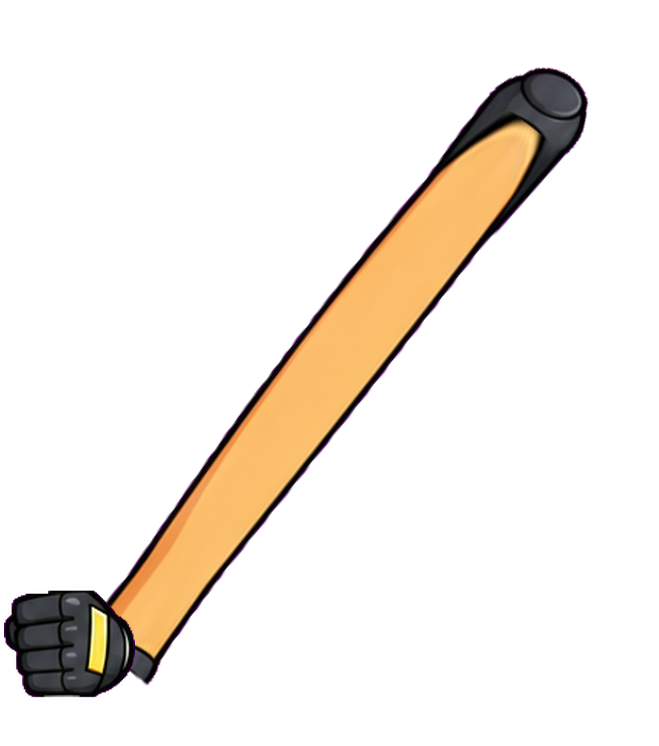
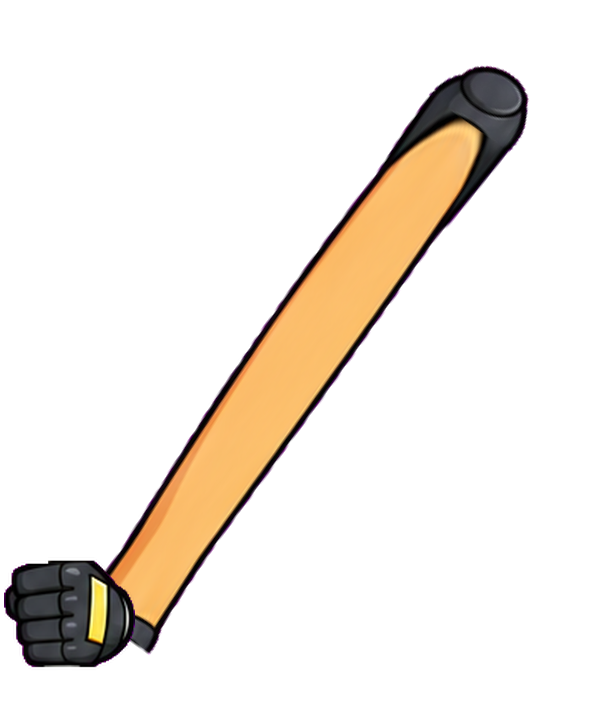
11 네온 알론소 내려찍기 v3 (DHL 17:37): 머리 위 팔뚝이 얼굴을 가로지르지 않게 — 팔꿈치 눈 높이 위, 두 윗팔이 얼굴 양옆(시트 m10)
- 손잡이 60 위, 쥔 팔 조각 각도·길이 다시 풀기(fOH·nOH)
- 머리 위 전용 긴 윗팔 armNupL·armFupL: 어깨 덮개 그대로 살 부분만 미리 늘임(덮개 긴 타원 없음), 굵기 1.2배
- 휘두름·런지는 v2 짧은 윗팔 그대로, 엔진 안 바꿈

Claude-Session: https://claude.ai/code/session_011WxNHak8EsK79yqEoeePC7

diff --git a/assets/rig/alonso-neon/rig.def.js b/assets/rig/alonso-neon/rig.def.js
@@ -1,3 +1,3 @@
 // 자동 생성: rig.json을 JS로 감싼 것. 원본은 같은 폴더의 rig.json (source/build_neon.py)
 window.MR_RIG_DEFS=window.MR_RIG_DEFS||{};
-window.MR_RIG_DEFS['alonso-neon']={"name": "alonso-neon", "version": "5b5ce94a", "units": "rig px (원화 512 ×2)", "refOrigin": [416.0, 972.0], "refScale": 1.0, "refLift": 0, "parts": {"head": {"src": "parts/head.png", "pivot": [146.0, 249.0], "scale": 2.0}, "torso": {"src": "parts/torso.png", "pivot": [66.0, 102.0], "scale": 2.0}, "torsoS": {"src": "parts/torsoS.png", "pivot": [66.0, 107.0], "scale": 2.0}, "hips": {"src": "parts/hips.png", "pivot": [34.0, 1.0], "scale": 2.0}, "pauldron": {"src": "parts/pauldron.png", "pivot": [45.0, 44.0], "scale": 2.0}, "pauldronF": {"src": "parts/pauldronF.png", "pivot": [26.0, 33.0], "scale": 2.0}, "armU": {"src": "parts/armU.png", "pivot": [7.0, 4.0], "scale": 2.0, "elbow": [23.0, 30.0]}, "armL": {"src": "parts/armL.png", "pivot": [13.0, 17.0], "scale": 2.0, "elbow": [13.0, 17.0], "grip": [99.7, 47.5], "wrist": [99.7, 47.5], "shaftDir": [0.6051086267486272, -0.7961429204824914]}, "foreF": {"src": "parts/foreF.png", "pivot": [3.0, 28.0], "scale": 2.0, "elbow": [3.0, 28.0], "grip": [39.8, 28.0], "wrist": [39.8, 28.0], "shaftDir": [0.6051086267486272, -0.7961429204824914]}, "armF": {"src": "parts/armF.png", "pivot": [36, 25], "scale": 0.7063, "elbow": [38, 145]}, "weapon": {"src": "parts/weapon.png", "pivot": [100, 396.4641362222595], "scale": 2.0, "tip": [100, 16], "tips": [[92, 10], [108, 10]], "guard": [100, 370], "pommel": [100, 463]}, "face_effort": {"src": "parts/face_effort.png", "pivot": [146.0, 249.0], "scale": 2.0}, "face_shout": {"src": "parts/face_shout.png", "pivot": [146.0, 249.0], "scale": 2.0}, "face_focus": {"src": "parts/face_focus.png", "pivot": [146.0, 249.0], "scale": 2.0}, "face_happy": {"src": "parts/face_happy.png", "pivot": [146.0, 249.0], "scale": 2.0}, "face_surprised": {"src": "parts/face_surprised.png", "pivot": [146.0, 249.0], "scale": 2.0}, "face_grimace": {"src": "parts/face_grimace.png", "pivot": [146.0, 249.0], "scale": 2.0}, "face_closed": {"src": "parts/face_closed.png", "pivot": [146.0, 249.0], "scale": 2.0}, "face_half": {"src": "parts/face_half.png", "pivot": [146.0, 249.0], "scale": 2.0}, "thighN": {"src": "parts/thighN.png", "pivot": [0, 0], "scale": 1.0}, "thighF": {"src": "parts/thighF.png", "pivot": [0, 0], "scale": 1.0}, "shinN": {"src": "parts/shinN.png", "pivot": [0, 0], "scale": 1.0}, "shinF": {"src": "parts/shinF.png", "pivot": [0, 0], "scale": 1.0}, "bootN": {"src": "parts/bootN.png", "pivot": [52.0, 2.0], "scale": 2.0}, "bootF": {"src": "parts/bootF.png", "pivot": [20.0, 9.0], "scale": 2.0}, "rthighN": {"src": "parts/rthighN.png", "pivot": [0, 0], "scale": 1.0}, "rthighF": {"src": "parts/rthighF.png", "pivot": [0, 0], "scale": 1.0}, "rshinN": {"src": "parts/rshinN.png", "pivot": [0, 0], "scale": 1.0}, "rshinF": {"src": "parts/rshinF.png", "pivot": [0, 0], "scale": 1.0}, "rkneeN": {"src": "parts/rkneeN.png", "pivot": [49.5, 50.5], "scale": 0.8}, "rkneeF": {"src": "parts/rkneeF.png", "pivot": [49.5, 50.5], "scale": 0.8}, "rboot": {"src": "parts/rboot.png", "pivot": [46.0, 30.0], "scale": 1.12}, "fOH": {"src": "parts/fOH.png", "pivot": [545.5, 108.1], "elbow": [545.5, 108.1], "grip": [59.5, 645.5], "wrist": [59.5, 645.5], "shaftDir": [0.0, 1.0], "scale": 0.5}, "nOH": {"src": "parts/nOH.png", "pivot": [96.3, 111.9], "elbow": [96.3, 111.9], "grip": [754.5, 360.5], "wrist": [754.5, 360.5], "shaftDir": [0.0, -1.0], "scale": 0.5}, "fST": {"src": "parts/fST.png", "pivot": [73.5, 100.7], "elbow": [73.5, 100.7], "grip": [262.2, 106.7], "wrist": [262.2, 106.7], "shaftDir": [1.0, 0.0], "scale": 0.5}, "nST": {"src": "parts/nST.png", "pivot": [92.6, 191.0], "elbow": [92.6, 191.0], "grip": [435.2, 94.2], "wrist": [435.2, 94.2], "shaftDir": [1.0, 0.0], "scale": 0.5}, "armNup": {"src": "parts/armNup.png", "pivot": [31.0, 119.5], "elbow": [70.6, 29.2], "scale": 1.0}, "armFup": {"src": "parts/armFup.png", "pivot": [59.3, 99.7], "elbow": [29.1, 29.2], "scale": 1.0}, "weaponA": {"src": "parts/weaponA.png", "pivot": [100, 396.4641362222595], "scale": 2.0, "tip": [100, 16], "tips": [[92, 10], [108, 10]], "guard": [100, 370], "pommel": [100, 463]}}, "bones": [{"name": "root", "parent": null, "pos": [0, 0]}, {"name": "hip", "parent": "root", "pos": [-32.0, -176.0]}, {"name": "hips", "parent": "hip", "pos": [0.0, 0.0], "part": "hips"}, {"name": "torso", "parent": "hip", "pos": [0.0, 0.0], "part": "torso"}, {"name": "torsoS", "parent": "torso", "pos": [0, 0], "part": "torsoS"}, {"name": "head", "parent": "torso", "pos": [26.0, -172.0], "part": "head"}, {"name": "armF", "parent": "torso", "pos": [110.0, -124.0], "rot": 0.3533, "part": "armF"}, {"name": "foreF", "parent": "armF", "pos": [1.4, 84.7], "rot": -0.3533, "part": "foreF"}, {"name": "fistF", "parent": "foreF", "pos": [73.7, -0.1]}, {"name": "weapon", "parent": "fistF", "pos": [0, 0], "rot": 0.6499, "part": "weapon"}, {"name": "armU", "parent": "torso", "pos": [-84.0, -112.0], "part": "armU"}, {"name": "armL", "parent": "armU", "pos": [32.0, 52.0], "part": "armL"}, {"name": "fistN", "parent": "armL", "pos": [173.3, 61.1]}, {"name": "pauldron", "parent": "torso", "pos": [-84.0, -112.0], "part": "pauldron"}, {"name": "pauldronF", "parent": "torso", "pos": [110.0, -124.0], "part": "pauldronF"}, {"name": "cape", "parent": "torso", "pos": [0, -200]}, {"name": "scarf", "parent": "torso", "pos": [0, -200]}, {"name": "pouch", "parent": "torso", "pos": [0, -200]}, {"name": "skirt", "parent": "torso", "pos": [0, -200]}, {"name": "skirtB", "parent": "torso", "pos": [0, -200]}, {"name": "weaponA", "parent": "weapon", "pos": [0, 0], "part": "weaponA"}], "legs": {"hip": [0, 10], "thigh": 108.0, "shin": 78.0, "thighImg": {"part": "rthighF", "a": [34.2, 21.6], "b": [39.7, 133.9], "w": 1.197}, "shinImg": {"part": "rshinF", "a": [28.5, 22.3], "b": [46.0, 131.1], "w": 1.625}, "thighFirst": false, "boot": {"part": "rboot", "sole": [[-46.0, 49.0], [84.0, 49.0], [-34.0, 56.0], [84.0, 56.0], [26.0, 63.0], [52.0, 63.0]], "ankleRange": [-0.45, 0.75]}, "near": {"x": -96.0, "hipX": -40.0, "runX": -10, "shade": 0, "kneeOut": 1, "thigh": 65.1, "shin": 57.3, "thighImg": {"part": "rthighN", "a": [47.1, 21.8], "b": [48.1, 129.7], "w": 1.149}, "shinImg": {"part": "rshinN", "a": [34.2, 21.6], "b": [24.7, 127.2], "w": 1.563}, "kneeImg": {"part": "rkneeN", "mix": 0.5}, "stand": {"fade": [0.05, 0.1], "boot": {"part": "bootN", "sole": [[-46.0, 28.0], [3.0, 28.0], [-35.0, 32.0], [-16.0, 32.0]]}, "thighImg": {"part": "thighN", "a": [63.0, 8.0], "b": [41.0, 32.0], "w": 1.0}, "shinImg": {"part": "shinN", "a": [35.0, -12.0], "b": [29.0, 16.0], "w": 1.0}, "kneeImg": null}}, "far": {"x": 158.0, "hipX": 44.0, "runX": 10, "shade": 0, "thigh": 118.2, "shin": 72.2, "thighImg": {"part": "rthighF", "a": [34.2, 21.6], "b": [39.7, 133.9], "w": 1.197}, "shinImg": {"part": "rshinF", "a": [28.5, 22.3], "b": [46.0, 131.1], "w": 1.625}, "kneeImg": {"part": "rkneeF", "mix": 0.5}, "stand": {"fade": [0.05, 0.1], "boot": {"part": "bootF", "sole": [[-1.0, 18.0], [55.0, 18.0], [26.0, 22.0], [41.0, 22.0]]}, "thighImg": {"part": "thighF", "a": [27.0, 7.0], "b": [81.0, 31.0], "w": 1.0}, "shinImg": {"part": "shinF", "a": [11.0, -11.0], "b": [14.0, 25.0], "w": 1.0}, "kneeImg": null}}}, "draw": ["legFar", "legNear", "hips", "armF", "torsoS", "torso", "pauldronF", "head", "weapon", "weaponA", "foreF", "armU", "pauldron", "armL"], "drawA": ["legFar", "legNear", "hips", "armF", "torsoS", "torso", "pauldronF", "head", "weapon", "weaponA", "foreF", "armU", "pauldron", "armL"], "hidden": ["torsoS", "weaponA"], "faces": {"effort": "face_effort", "shout": "face_shout", "focus": "face_focus", "happy": "face_happy", "surprised": "face_surprised", "grimace": "face_grimace"}, "blinkFaces": {"half": "face_half", "closed": "face_closed"}, "metrics": {"bodyHeight": 774, "note": "rig units; 머리카락 가운데(y95)~발바닥(482) ×2, 무기 제외"}, "armPhase": 0.5, "gait": {"heelKick": 0.5, "kneeLift": 0.35, "strideBase": 80, "strideK": 0.2, "swingReach": -0.05, "swingAng": 0.15, "landAng": 0, "hipBase": -44, "bob": 10, "lean": 0.1, "headRun": 0.04}, "carrySwing": 0.25, "wristRange": 0.2, "swordGrip": {"tipDepth": 6, "near": {"upper": "armF", "carry": "foreF"}, "far": {"upper": "armU", "pieces": ["armL"], "sPref": -56.8}, "guard": {"gx": 155.7, "gy": -44.1, "sa": -0.9209, "sN": 0, "sF": -56.8, "nPiece": "foreF", "fPiece": "armL", "nUpper": "armF", "fUpper": "armU", "order": "drawA", "frame": "torso"}, "shoulderN": [36, 6], "shoulderF": [-15, -5], "stretchMax": 2.4, "shoulderPush": 0, "pauldronFollow": 1}, "ui": {"attack": "smash", "touch": "hop"}, "gameRef": {"refOrigin": [208.0, 486.0], "refScale": 2.0, "refLift": 0, "note": "게임 그림 char_0011.png(512) = 원화"}, "note": "11 네온 알론소 (2026-10-18, v1 대기·달리기). 두 손으로 칼을 몸 앞에 쥠(swordGrip.guard), 손·팔뚝·머리·어깨갑은 원화를 그대로 오려 씀.", "drawOH": ["legFar", "legNear", "hips", "torsoS", "torso", "pauldronF", "head", "weapon", "weaponA", "armF", "armU", "foreF", "armL", "pauldron"], "drawSW": ["legFar", "legNear", "hips", "armF", "foreF", "armU", "armL", "torsoS", "torso", "pauldronF", "head", "weapon", "weaponA", "pauldron"], "actions": {"smash": {"dur": 0.9, "hitAt": 0.43, "hitStop": 0.07, "cancelAt": 0.64, "legRun": [[0, 0], [0.36, 0, "lin"], [0.3601, 0.12, "io"], [0.43, 1], [0.64, 1, "io"], [0.79, 0.12, "lin"], [0.7901, 0]], "w": [[0, 1]], "reach": [[0, 1]], "sN": [[0, 0]], "sF": [[0, -56.8]], "shN": [[0, 0], [0.36, 0, "io"], [0.43, 1], [0.64, 1, "io"], [0.8, 0]], "shF": [[0, 0], [0.08, 0, "io"], [0.15, 1], [0.66, 1, "io"], [0.76, 0]], "hipX": [[0, 0, "io"], [0.067, -4, "io"], [0.3, -6, "s"], [0.43, 60, "o"], [0.62, 60, "io"], [0.84, 0]], "hipY": [[0, 0, "io"], [0.067, 12, "io"], [0.2, -4, "s"], [0.33, -2, "s"], [0.43, 40, "o"], [0.62, 36, "io"], [0.84, 0]], "lean": [[0, 0, "io"], [0.067, 0.03, "io"], [0.2, -0.06, "s"], [0.33, -0.08, "s"], [0.43, 0.25, "o"], [0.62, 0.22, "io"], [0.84, 0]], "head": [[0, 0, "io"], [0.2, 0.05, "s"], [0.43, -0.12, "o"], [0.62, -0.1, "io"], [0.84, 0]], "farDx": [[0, 0, "io"], [0.3, 0, "s"], [0.43, 60], [0.64, 60, "io"], [0.84, 0]], "farLift": [[0, 0], [0.3, 0, "io"], [0.37, 24, "io"], [0.43, 0], [0.66, 0, "io"], [0.74, 14, "io"], [0.84, 0]], "nearDx": [[0, 0, "io"], [0.3, 0, "io"], [0.43, -55], [0.64, -55, "io"], [0.84, 0]], "shake": [[0, 0], [0.43, 0, "lin"], [0.44, 1], [0.53, 0]], "face": [[0, "effort"], [0.15, "shout"], [0.5, "focus"], [0.8, null]], "nPiece": [[0, "foreF"], [0.1001, "fOH"], [0.3601, "fST"], [0.72, "foreF"]], "fPiece": [[0, "armL"], [0.1001, "nOH"], [0.3601, "nST"], [0.72, "armL"]], "nUpper": [[0, "armF"], [0.1001, "armFup"], [0.72, "armF"]], "fUpper": [[0, "armU"], [0.1001, "armNup"], [0.72, "armU"]], "order": [[0, "drawA"], [0.1001, "drawOH"], [0.3601, "drawA"]], "fade": {"torso": [[0, 1], [0.1, 1, "lin"], [0.1001, 0], [0.72, 0, "lin"], [0.721, 1]], "torsoS": [[0, 1]], "pauldronF": [[0, 1], [0.1, 1, "lin"], [0.1001, 0], [0.72, 0, "lin"], [0.721, 1]], "pauldron": [[0, 1], [0.1, 1, "lin"], [0.1001, 0], [0.36, 0, "lin"], [0.3601, 1]], "armF": [[0, 1], [0.36, 1, "lin"], [0.3601, 0], [0.72, 0, "lin"], [0.721, 1]], "weapon": [[0, 1], [0.1, 1, "lin"], [0.1001, 0], [0.72, 0, "lin"], [0.721, 1]], "weaponA": [[0, 0], [0.1, 0, "lin"], [0.1001, 1], [0.72, 1, "lin"], [0.721, 0]]}, "kneeOut": 1, "ankleRange": [-0.45, 1.1], "fTw": [[0, 0], [0.1, 0, "lin"], [0.1001, -0.62, "lin"], [0.1002, -0.62, "o"], [0.15, -0.12, "io"], [0.22, 0, "lin"], [0.33, 0.08, "lin"], [0.36, 0.05, "lin"], [0.3601, 0.2, "o"], [0.41, 0, "io"], [0.62, 0, "io"], [0.72, 0.8, "lin"], [0.7201, -0.81, "io"], [0.8, 0]], "nTw": [[0, 0], [0.1, 0, "lin"], [0.1001, -0.62, "lin"], [0.1002, -0.62, "o"], [0.15, -0.12, "io"], [0.22, 0, "lin"], [0.33, 0.08, "lin"], [0.36, 0.05, "lin"], [0.3601, 0.2, "o"], [0.41, 0, "io"], [0.62, 0, "io"], [0.72, 0.42, "lin"], [0.7201, -0.42, "io"], [0.8, 0]], "kind": "sword", "rigid": true, "frame": "torso", "orderAlways": true, "gx": [[0, 155.7, "io"], [0.067, 150, "i"], [0.1, 235, "lin"], [0.1002, 150, "o"], [0.15, 20, "io"], [0.22, 5, "io"], [0.33, -5, "io"], [0.36, -5, "lin"], [0.3601, 225, "o"], [0.43, 213, "o"], [0.62, 213, "io"], [0.82, 155.7, "io"]], "gy": [[0, -44.1, "io"], [0.067, -24, "i"], [0.1, -170, "lin"], [0.1002, -500, "o"], [0.15, -590, "io"], [0.22, -605, "io"], [0.33, -610, "io"], [0.36, -600, "lin"], [0.3601, -180, "o"], [0.43, -96, "o"], [0.62, -96, "io"], [0.82, -44.1, "io"]], "sa": [[0, -0.9209, "io"], [0.067, -0.75, "i"], [0.1, -1.2, "lin"], [0.1002, -2.3, "o"], [0.15, -2.8, "io"], [0.22, -2.92, "io"], [0.33, -3.0, "io"], [0.36, -2.95, "lin"], [0.3601, -0.2, "o"], [0.43, 0.42, "o"], [0.62, 0.42, "io"], [0.82, -0.9209, "io"]]}}, "cutHold": 0.55};
+window.MR_RIG_DEFS['alonso-neon']={"name": "alonso-neon", "version": "fadee960", "units": "rig px (원화 512 ×2)", "refOrigin": [416.0, 972.0], "refScale": 1.0, "refLift": 0, "parts": {"head": {"src": "parts/head.png", "pivot": [146.0, 249.0], "scale": 2.0}, "torso": {"src": "parts/torso.png", "pivot": [66.0, 102.0], "scale": 2.0}, "torsoS": {"src": "parts/torsoS.png", "pivot": [66.0, 107.0], "scale": 2.0}, "hips": {"src": "parts/hips.png", "pivot": [34.0, 1.0], "scale": 2.0}, "pauldron": {"src": "parts/pauldron.png", "pivot": [45.0, 44.0], "scale": 2.0}, "pauldronF": {"src": "parts/pauldronF.png", "pivot": [26.0, 33.0], "scale": 2.0}, "armU": {"src": "parts/armU.png", "pivot": [7.0, 4.0], "scale": 2.0, "elbow": [23.0, 30.0]}, "armL": {"src": "parts/armL.png", "pivot": [13.0, 17.0], "scale": 2.0, "elbow": [13.0, 17.0], "grip": [99.7, 47.5], "wrist": [99.7, 47.5], "shaftDir": [0.6051086267486272, -0.7961429204824914]}, "foreF": {"src": "parts/foreF.png", "pivot": [3.0, 28.0], "scale": 2.0, "elbow": [3.0, 28.0], "grip": [39.8, 28.0], "wrist": [39.8, 28.0], "shaftDir": [0.6051086267486272, -0.7961429204824914]}, "armF": {"src": "parts/armF.png", "pivot": [36, 25], "scale": 0.7063, "elbow": [38, 145]}, "weapon": {"src": "parts/weapon.png", "pivot": [100, 396.4641362222595], "scale": 2.0, "tip": [100, 16], "tips": [[92, 10], [108, 10]], "guard": [100, 370], "pommel": [100, 463]}, "face_effort": {"src": "parts/face_effort.png", "pivot": [146.0, 249.0], "scale": 2.0}, "face_shout": {"src": "parts/face_shout.png", "pivot": [146.0, 249.0], "scale": 2.0}, "face_focus": {"src": "parts/face_focus.png", "pivot": [146.0, 249.0], "scale": 2.0}, "face_happy": {"src": "parts/face_happy.png", "pivot": [146.0, 249.0], "scale": 2.0}, "face_surprised": {"src": "parts/face_surprised.png", "pivot": [146.0, 249.0], "scale": 2.0}, "face_grimace": {"src": "parts/face_grimace.png", "pivot": [146.0, 249.0], "scale": 2.0}, "face_closed": {"src": "parts/face_closed.png", "pivot": [146.0, 249.0], "scale": 2.0}, "face_half": {"src": "parts/face_half.png", "pivot": [146.0, 249.0], "scale": 2.0}, "thighN": {"src": "parts/thighN.png", "pivot": [0, 0], "scale": 1.0}, "thighF": {"src": "parts/thighF.png", "pivot": [0, 0], "scale": 1.0}, "shinN": {"src": "parts/shinN.png", "pivot": [0, 0], "scale": 1.0}, "shinF": {"src": "parts/shinF.png", "pivot": [0, 0], "scale": 1.0}, "bootN": {"src": "parts/bootN.png", "pivot": [52.0, 2.0], "scale": 2.0}, "bootF": {"src": "parts/bootF.png", "pivot": [20.0, 9.0], "scale": 2.0}, "rthighN": {"src": "parts/rthighN.png", "pivot": [0, 0], "scale": 1.0}, "rthighF": {"src": "parts/rthighF.png", "pivot": [0, 0], "scale": 1.0}, "rshinN": {"src": "parts/rshinN.png", "pivot": [0, 0], "scale": 1.0}, "rshinF": {"src": "parts/rshinF.png", "pivot": [0, 0], "scale": 1.0}, "rkneeN": {"src": "parts/rkneeN.png", "pivot": [49.5, 50.5], "scale": 0.8}, "rkneeF": {"src": "parts/rkneeF.png", "pivot": [49.5, 50.5], "scale": 0.8}, "rboot": {"src": "parts/rboot.png", "pivot": [46.0, 30.0], "scale": 1.12}, "fOH": {"src": "parts/fOH.png", "pivot": [486.1, 106.4], "elbow": [486.1, 106.4], "grip": [59.5, 615.5], "wrist": [59.5, 615.5], "shaftDir": [0.0, 1.0], "scale": 0.5}, "nOH": {"src": "parts/nOH.png", "pivot": [101.7, 113.8], "elbow": [101.7, 113.8], "grip": [652.5, 376.5], "wrist": [652.5, 376.5], "shaftDir": [0.0, -1.0], "scale": 0.5}, "fST": {"src": "parts/fST.png", "pivot": [73.5, 100.7], "elbow": [73.5, 100.7], "grip": [262.2, 106.7], "wrist": [262.2, 106.7], "shaftDir": [1.0, 0.0], "scale": 0.5}, "nST": {"src": "parts/nST.png", "pivot": [92.6, 191.0], "elbow": [92.6, 191.0], "grip": [435.2, 94.2], "wrist": [435.2, 94.2], "shaftDir": [1.0, 0.0], "scale": 0.5}, "armNupL": {"src": "parts/armNupL.png", "pivot": [52, 32], "elbow": [52, 342], "scale": 1.0}, "armFupL": {"src": "parts/armFupL.png", "pivot": [52, 32], "elbow": [52, 330], "scale": 1.0}, "armNup": {"src": "parts/armNup.png", "pivot": [31.0, 119.5], "elbow": [70.6, 29.2], "scale": 1.0}, "armFup": {"src": "parts/armFup.png", "pivot": [59.3, 99.7], "elbow": [29.1, 29.2], "scale": 1.0}, "weaponA": {"src": "parts/weaponA.png", "pivot": [100, 396.4641362222595], "scale": 2.0, "tip": [100, 16], "tips": [[92, 10], [108, 10]], "guard": [100, 370], "pommel": [100, 463]}}, "bones": [{"name": "root", "parent": null, "pos": [0, 0]}, {"name": "hip", "parent": "root", "pos": [-32.0, -176.0]}, {"name": "hips", "parent": "hip", "pos": [0.0, 0.0], "part": "hips"}, {"name": "torso", "parent": "hip", "pos": [0.0, 0.0], "part": "torso"}, {"name": "torsoS", "parent": "torso", "pos": [0, 0], "part": "torsoS"}, {"name": "head", "parent": "torso", "pos": [26.0, -172.0], "part": "head"}, {"name": "armF", "parent": "torso", "pos": [110.0, -124.0], "rot": 0.3533, "part": "armF"}, {"name": "foreF", "parent": "armF", "pos": [1.4, 84.7], "rot": -0.3533, "part": "foreF"}, {"name": "fistF", "parent": "foreF", "pos": [73.7, -0.1]}, {"name": "weapon", "parent": "fistF", "pos": [0, 0], "rot": 0.6499, "part": "weapon"}, {"name": "armU", "parent": "torso", "pos": [-84.0, -112.0], "part": "armU"}, {"name": "armL", "parent": "armU", "pos": [32.0, 52.0], "part": "armL"}, {"name": "fistN", "parent": "armL", "pos": [173.3, 61.1]}, {"name": "pauldron", "parent": "torso", "pos": [-84.0, -112.0], "part": "pauldron"}, {"name": "pauldronF", "parent": "torso", "pos": [110.0, -124.0], "part": "pauldronF"}, {"name": "cape", "parent": "torso", "pos": [0, -200]}, {"name": "scarf", "parent": "torso", "pos": [0, -200]}, {"name": "pouch", "parent": "torso", "pos": [0, -200]}, {"name": "skirt", "parent": "torso", "pos": [0, -200]}, {"name": "skirtB", "parent": "torso", "pos": [0, -200]}, {"name": "weaponA", "parent": "weapon", "pos": [0, 0], "part": "weaponA"}], "legs": {"hip": [0, 10], "thigh": 108.0, "shin": 78.0, "thighImg": {"part": "rthighF", "a": [34.2, 21.6], "b": [39.7, 133.9], "w": 1.197}, "shinImg": {"part": "rshinF", "a": [28.5, 22.3], "b": [46.0, 131.1], "w": 1.625}, "thighFirst": false, "boot": {"part": "rboot", "sole": [[-46.0, 49.0], [84.0, 49.0], [-34.0, 56.0], [84.0, 56.0], [26.0, 63.0], [52.0, 63.0]], "ankleRange": [-0.45, 0.75]}, "near": {"x": -96.0, "hipX": -40.0, "runX": -10, "shade": 0, "kneeOut": 1, "thigh": 65.1, "shin": 57.3, "thighImg": {"part": "rthighN", "a": [47.1, 21.8], "b": [48.1, 129.7], "w": 1.149}, "shinImg": {"part": "rshinN", "a": [34.2, 21.6], "b": [24.7, 127.2], "w": 1.563}, "kneeImg": {"part": "rkneeN", "mix": 0.5}, "stand": {"fade": [0.05, 0.1], "boot": {"part": "bootN", "sole": [[-46.0, 28.0], [3.0, 28.0], [-35.0, 32.0], [-16.0, 32.0]]}, "thighImg": {"part": "thighN", "a": [63.0, 8.0], "b": [41.0, 32.0], "w": 1.0}, "shinImg": {"part": "shinN", "a": [35.0, -12.0], "b": [29.0, 16.0], "w": 1.0}, "kneeImg": null}}, "far": {"x": 158.0, "hipX": 44.0, "runX": 10, "shade": 0, "thigh": 118.2, "shin": 72.2, "thighImg": {"part": "rthighF", "a": [34.2, 21.6], "b": [39.7, 133.9], "w": 1.197}, "shinImg": {"part": "rshinF", "a": [28.5, 22.3], "b": [46.0, 131.1], "w": 1.625}, "kneeImg": {"part": "rkneeF", "mix": 0.5}, "stand": {"fade": [0.05, 0.1], "boot": {"part": "bootF", "sole": [[-1.0, 18.0], [55.0, 18.0], [26.0, 22.0], [41.0, 22.0]]}, "thighImg": {"part": "thighF", "a": [27.0, 7.0], "b": [81.0, 31.0], "w": 1.0}, "shinImg": {"part": "shinF", "a": [11.0, -11.0], "b": [14.0, 25.0], "w": 1.0}, "kneeImg": null}}}, "draw": ["legFar", "legNear", "hips", "armF", "torsoS", "torso", "pauldronF", "head", "weapon", "weaponA", "foreF", "armU", "pauldron", "armL"], "drawA": ["legFar", "legNear", "hips", "armF", "torsoS", "torso", "pauldronF", "head", "weapon", "weaponA", "foreF", "armU", "pauldron", "armL"], "hidden": ["torsoS", "weaponA"], "faces": {"effort": "face_effort", "shout": "face_shout", "focus": "face_focus", "happy": "face_happy", "surprised": "face_surprised", "grimace": "face_grimace"}, "blinkFaces": {"half": "face_half", "closed": "face_closed"}, "metrics": {"bodyHeight": 774, "note": "rig units; 머리카락 가운데(y95)~발바닥(482) ×2, 무기 제외"}, "armPhase": 0.5, "gait": {"heelKick": 0.5, "kneeLift": 0.35, "strideBase": 80, "strideK": 0.2, "swingReach": -0.05, "swingAng": 0.15, "landAng": 0, "hipBase": -44, "bob": 10, "lean": 0.1, "headRun": 0.04}, "carrySwing": 0.25, "wristRange": 0.2, "swordGrip": {"tipDepth": 6, "near": {"upper": "armF", "carry": "foreF"}, "far": {"upper": "armU", "pieces": ["armL"], "sPref": -56.8}, "guard": {"gx": 155.7, "gy": -44.1, "sa": -0.9209, "sN": 0, "sF": -56.8, "nPiece": "foreF", "fPiece": "armL", "nUpper": "armF", "fUpper": "armU", "order": "drawA", "frame": "torso"}, "shoulderN": [36, 6], "shoulderF": [-15, -5], "stretchMax": 1.6, "shoulderPush": 0, "pauldronFollow": 1}, "ui": {"attack": "smash", "touch": "hop"}, "gameRef": {"refOrigin": [208.0, 486.0], "refScale": 2.0, "refLift": 0, "note": "게임 그림 char_0011.png(512) = 원화"}, "note": "11 네온 알론소 (2026-10-18, v1 대기·달리기). 두 손으로 칼을 몸 앞에 쥠(swordGrip.guard), 손·팔뚝·머리·어깨갑은 원화를 그대로 오려 씀.", "drawOH": ["legFar", "legNear", "hips", "torsoS", "torso", "pauldronF", "head", "weapon", "weaponA", "armF", "armU", "foreF", "armL", "pauldron"], "drawSW": ["legFar", "legNear", "hips", "armF", "foreF", "armU", "armL", "torsoS", "torso", "pauldronF", "head", "weapon", "weaponA", "pauldron"], "actions": {"smash": {"dur": 0.9, "hitAt": 0.43, "hitStop": 0.07, "cancelAt": 0.64, "legRun": [[0, 0], [0.36, 0, "lin"], [0.3601, 0.12, "io"], [0.43, 1], [0.64, 1, "io"], [0.79, 0.12, "lin"], [0.7901, 0]], "w": [[0, 1]], "reach": [[0, 1]], "sN": [[0, 0]], "sF": [[0, -56.8]], "shN": [[0, 0], [0.36, 0, "io"], [0.43, 1], [0.64, 1, "io"], [0.8, 0]], "shF": [[0, 0], [0.08, 0, "io"], [0.15, 1], [0.66, 1, "io"], [0.76, 0]], "hipX": [[0, 0, "io"], [0.067, -4, "io"], [0.3, -6, "s"], [0.43, 60, "o"], [0.62, 60, "io"], [0.84, 0]], "hipY": [[0, 0, "io"], [0.067, 12, "io"], [0.2, -4, "s"], [0.33, -2, "s"], [0.43, 40, "o"], [0.62, 36, "io"], [0.84, 0]], "lean": [[0, 0, "io"], [0.067, 0.03, "io"], [0.2, -0.06, "s"], [0.33, -0.08, "s"], [0.43, 0.25, "o"], [0.62, 0.22, "io"], [0.84, 0]], "head": [[0, 0, "io"], [0.2, 0.05, "s"], [0.43, -0.12, "o"], [0.62, -0.1, "io"], [0.84, 0]], "farDx": [[0, 0, "io"], [0.3, 0, "s"], [0.43, 60], [0.64, 60, "io"], [0.84, 0]], "farLift": [[0, 0], [0.3, 0, "io"], [0.37, 24, "io"], [0.43, 0], [0.66, 0, "io"], [0.74, 14, "io"], [0.84, 0]], "nearDx": [[0, 0, "io"], [0.3, 0, "io"], [0.43, -55], [0.64, -55, "io"], [0.84, 0]], "shake": [[0, 0], [0.43, 0, "lin"], [0.44, 1], [0.53, 0]], "face": [[0, "effort"], [0.15, "shout"], [0.5, "focus"], [0.8, null]], "nPiece": [[0, "foreF"], [0.1001, "fOH"], [0.3601, "fST"], [0.72, "foreF"]], "fPiece": [[0, "armL"], [0.1001, "nOH"], [0.3601, "nST"], [0.72, "armL"]], "nUpper": [[0, "armF"], [0.1001, "armFupL"], [0.3601, "armFup"], [0.72, "armF"]], "fUpper": [[0, "armU"], [0.1001, "armNupL"], [0.3601, "armNup"], [0.72, "armU"]], "order": [[0, "drawA"], [0.1001, "drawOH"], [0.3601, "drawA"]], "fade": {"torso": [[0, 1], [0.1, 1, "lin"], [0.1001, 0], [0.72, 0, "lin"], [0.721, 1]], "torsoS": [[0, 1]], "pauldronF": [[0, 1], [0.1, 1, "lin"], [0.1001, 0], [0.72, 0, "lin"], [0.721, 1]], "pauldron": [[0, 1], [0.1, 1, "lin"], [0.1001, 0], [0.36, 0, "lin"], [0.3601, 1]], "armF": [[0, 1], [0.36, 1, "lin"], [0.3601, 0], [0.72, 0, "lin"], [0.721, 1]], "weapon": [[0, 1], [0.1, 1, "lin"], [0.1001, 0], [0.72, 0, "lin"], [0.721, 1]], "weaponA": [[0, 0], [0.1, 0, "lin"], [0.1001, 1], [0.72, 1, "lin"], [0.721, 0]]}, "kneeOut": 1, "ankleRange": [-0.45, 1.1], "fTw": [[0, 0], [0.1, 0, "lin"], [0.1001, -0.62, "lin"], [0.1002, -0.62, "o"], [0.15, -0.12, "io"], [0.22, 0, "lin"], [0.33, 0.08, "lin"], [0.36, 0.05, "lin"], [0.3601, 0.2, "o"], [0.41, 0, "io"], [0.62, 0, "io"], [0.72, 0.8, "lin"], [0.7201, -0.81, "io"], [0.8, 0]], "nTw": [[0, 0], [0.1, 0, "lin"], [0.1001, -0.62, "lin"], [0.1002, -0.62, "o"], [0.15, -0.12, "io"], [0.22, 0, "lin"], [0.33, 0.08, "lin"], [0.36, 0.05, "lin"], [0.3601, 0.2, "o"], [0.41, 0, "io"], [0.62, 0, "io"], [0.72, 0.42, "lin"], [0.7201, -0.42, "io"], [0.8, 0]], "kind": "sword", "rigid": true, "frame": "torso", "orderAlways": true, "gx": [[0, 155.7, "io"], [0.067, 150, "i"], [0.1, 235, "lin"], [0.1002, 150, "o"], [0.15, 20, "io"], [0.22, 5, "io"], [0.33, -5, "io"], [0.36, -5, "lin"], [0.3601, 225, "o"], [0.43, 213, "o"], [0.62, 213, "io"], [0.82, 155.7, "io"]], "gy": [[0, -44.1, "io"], [0.067, -24, "i"], [0.1, -170, "lin"], [0.1002, -560, "o"], [0.15, -650, "io"], [0.22, -665, "io"], [0.33, -670, "io"], [0.36, -660, "lin"], [0.3601, -180, "o"], [0.43, -96, "o"], [0.62, -96, "io"], [0.82, -44.1, "io"]], "sa": [[0, -0.9209, "io"], [0.067, -0.75, "i"], [0.1, -1.2, "lin"], [0.1002, -2.3, "o"], [0.15, -2.8, "io"], [0.22, -2.92, "io"], [0.33, -3.0, "io"], [0.36, -2.95, "lin"], [0.3601, -0.2, "o"], [0.43, 0.42, "o"], [0.62, 0.42, "io"], [0.82, -0.9209, "io"]]}}, "cutHold": 0.55};

diff --git a/assets/rig/alonso-neon/source/tools/ohprobe.html b/assets/rig/alonso-neon/source/tools/ohprobe.html
@@ -1,0 +1,15 @@
+<!doctype html><meta charset=utf-8><body><script src="../../../rig.js"></script><script src="../../rig.def.js"></script>
+<script>
+// 머리 위 자세 관절점: ohprobe.html?apre=16  → window.R = {G, EN, EF, SN, SF, neck, headBox, eye}
+(async()=>{const Q=new URLSearchParams(location.search),def=window.MR_RIG_DEFS['alonso-neon'],base='../../';
+const ims=Object.fromEntries(await Promise.all(Object.entries(def.parts).map(([k,p])=>new Promise(r=>{const i=new Image();i.onload=()=>r([k,i]);i.onerror=()=>r([k,null]);i.src=base+p.src}))));
+const rig=new CharacterRig(def,ims),an=new RunAnimator(rig,{runSpeed:620});
+for(let i=0;i<30;i++)an.update(1/60,{vx:0,facing:1});an.attack('smash');const out=[];
+for(let i=0;i<+(Q.get('n')||40);i++){an.update(1/60,{vx:0,facing:1});const b=rig.by,P=def.parts;
+  const pt=(bn,x,y)=>{const m=b[bn].m;return [Math.round(m[0]*x+m[2]*y+m[4]),Math.round(m[1]*x+m[3]*y+m[5])]};
+  const ppt=(bn,px,py)=>{const p=P[rig.swap[bn]||b[bn].part];return pt(bn,(px-p.pivot[0])*(p.scale||1),(py-p.pivot[1])*(p.scale||1))};
+  const pf=P[rig.swap.foreF||b.foreF.part],pl=P[rig.swap.armL||b.armL.part];
+  out.push({i,t:+an.act.t.toFixed(3),G:an.swordG.map(Math.round),sa:+an.swordA.toFixed(2),EN:pt('foreF',0,0),EF:pt('armL',0,0),SN:pt('armF',0,0),SF:pt('armU',0,0),
+    gN:ppt('foreF',...pf.grip),gF:ppt('armL',...pl.grip),neck:pt('head',0,0),eyeL:ppt('head',100,150),eyeR:ppt('head',200,150),hairTop:ppt('head',150,20),chin:ppt('head',150,240),pN:rig.swap.foreF,pF:rig.swap.armL})}
+window.R=out;document.title='done'})().catch(e=>{document.title='ERR '+e.stack});
+</script>

diff --git a/assets/rig/alonso-neon/source/attack_neon.py b/assets/rig/alonso-neon/source/attack_neon.py
@@ -57,10 +57,30 @@ def compose(name, fist, fore, rel_deg, L=None, inset=8.0):
     g = np.array(F['grip']) * k - mn; e = Ec - mn; r = lambda v: [round(float(v[0]), 1), round(float(v[1]), 1)]
     def_parts[name] = {'src': f'parts/{name}.png', 'pivot': r(e), 'elbow': r(e), 'grip': r(g), 'wrist': r(g), 'shaftDir': [float(sd[0]), float(sd[1])], 'scale': 1 / R2}
 for nm, spec in ATK['pieces'].items(): compose(nm, *spec)
-# 든 윗팔(시트 armNup·armFup): pivot = 어깨 마디, elbow = 팔꿈치 마디 (엔진이 어깨→팔꿈치로 돌리고 축 방향으로만 늘임)
-#   먼 팔 어깨 마디는 덮개 위쪽 끝 — 검은 어깨 덮개가 몸통 뒤로 숨음(먼 어깨갑은 공격 동안 숨김: 칼날 자리를 오려 냄)
-for nm, src, sh, el in [('armNup', 'armNup.png', (31.0, 119.5), (70.6, 29.2)), ('armFup', 'armFup.png', (59.3, 99.7), (29.1, 29.2))]:   # 든 팔 배율 UPS
-    _u = np.array(img(os.path.join(PC, src))); _sh, _el = np.array(sh), np.array(el); _ax = (_el - _sh) / np.linalg.norm(_el - _sh)   # (16:58) 팔꿈치 쪽 검은 덮개는 지움 — 팔뚝 조각의 덮개(위에 그림) 하나만 보이게(두 덮개가 '주먹'처럼 보였음)
+# 든 윗팔(시트 armNup·armFup): long_upper — 어깨 덮개 그대로, 살 부분만 미리 늘임(엔진 늘임 ≈ 1)
+def long_upper(nm, src, sh, el, T, c0=-5.0, keepS=20.0, skinEnd=78.0, back=32, wk=1.0):
+    """(17:40 DHL '팔뚝이 얼굴을 가로지름') 머리 위 든 윗팔을 길이 T(리그)로 미리 늘인 그림.
+    엔진은 윗팔 그림을 축 방향으로 통째 늘여서 3배쯤 늘이면 어깨 쪽 검은 덮개가 긴 타원이 됐음 →
+    어깨 덮개(축 c0 둘레, keepS 까지)는 그대로, 살 부분(keepS~skinEnd)만 늘이고 팔꿈치 쪽 검은 덮개(skinEnd 뒤)는 지움 —
+    팔꿈치는 팔뚝 조각의 덮개 하나만(위에 그림). 그림 축 = 세로, pivot = 어깨 덮개 가운데, elbow = pivot + (0, T)"""
+    import cv2
+    a = np.asarray(img(os.path.join(PC, src))).astype(np.float32); pre = a.copy(); pre[..., :3] *= pre[..., 3:4] / 255
+    sh, el = np.array(sh), np.array(el); ax = (el - sh) / np.linalg.norm(el - sh); ux = np.array([ax[1], -ax[0]])
+    f = (T + 4 - (keepS - c0)) / (skinEnd - keepS); U0 = int(44 * wk); W = 2 * U0; H = int(back + T + 8)   # wk: 팔 굵기 배율(옆으로만) — 길게 늘인 팔이 막대처럼 가늘어 보이지 않게
+    yy, xx = np.mgrid[0:H, 0:W].astype(np.float32); w = yy - back; u = (xx - U0) / wk
+    sv = np.where(w <= keepS - c0, w + c0, keepS + (w - (keepS - c0)) / f)
+    mx = (sh[0] + ax[0] * sv + ux[0] * u).astype(np.float32); my = (sh[1] + ax[1] * sv + ux[1] * u).astype(np.float32)
+    o = cv2.remap(pre, mx, my, cv2.INTER_CUBIC, borderMode=cv2.BORDER_CONSTANT, borderValue=0)
+    o[..., 3] *= np.clip((skinEnd + 1 - sv) / 1.5, 0, 1); o = np.clip(o, 0, 255)
+    al = o[..., 3:4]; o[..., :3] = np.where(al > 1e-3, o[..., :3] / np.maximum(al, 1e-3) * 255, 0)
+    Image.fromarray(np.clip(o, 0, 255).astype(np.uint8), 'RGBA').save(os.path.join(OUT, 'parts', nm + '.png'))
+    def_parts[nm] = {'src': f'parts/{nm}.png', 'pivot': [U0, back], 'elbow': [U0, back + T], 'scale': ATK.get('upScale', 1.0)}
+_UL = ATK.get('upLen', {})
+for nm, src, sh, el in [('armNupL', 'armNup.png', (31.0, 119.5), (70.6, 29.2)), ('armFupL', 'armFup.png', (68.0, 119.9), (29.1, 29.2))]:   # 머리 위 전용(긴 팔)
+    long_upper(nm, src, sh, el, _UL.get(nm, 98.6), wk=ATK.get('upWide', 1.0))
+# 휘두름·런지 윗팔 = 시트 armNup·armFup 그대로(짧음, v2) — 팔꿈치 쪽 검은 덮개는 지움(팔뚝 조각 덮개 하나만)
+for nm, src, sh, el in [('armNup', 'armNup.png', (31.0, 119.5), (70.6, 29.2)), ('armFup', 'armFup.png', (59.3, 99.7), (29.1, 29.2))]:
+    _u = np.array(img(os.path.join(PC, src))); _sh, _el = np.array(sh), np.array(el); _ax = (_el - _sh) / np.linalg.norm(_el - _sh)
     _yy, _xx = np.mgrid[0:_u.shape[0], 0:_u.shape[1]]; _t = (_xx - _sh[0]) * _ax[0] + (_yy - _sh[1]) * _ax[1]; _L = float(np.linalg.norm(_el - _sh))
     _u[..., 3] = (_u[..., 3] * np.clip((_L + ATK.get('upperCut', 0) - _t) / 2, 0, 1)).astype(np.uint8); Image.fromarray(_u).save(os.path.join(OUT, 'parts', nm + '.png'))
     def_parts[nm] = {'src': f'parts/{nm}.png', 'pivot': list(sh), 'elbow': list(el), 'scale': ATK.get('upScale', FS)}

diff --git a/assets/rig/alonso-neon/source/tools/ohprobe.py b/assets/rig/alonso-neon/source/tools/ohprobe.py
@@ -1,0 +1,14 @@
+import sys,threading,functools,http.server,socketserver,json
+from playwright.sync_api import sync_playwright
+class Q(http.server.SimpleHTTPRequestHandler):
+    def log_message(self,*a):pass
+srv=socketserver.ThreadingTCPServer(('127.0.0.1',0),functools.partial(Q,directory='/home/claude/153-6'));port=srv.server_address[1]
+threading.Thread(target=srv.serve_forever,daemon=True).start()
+with sync_playwright() as p:
+    b=p.chromium.launch();pg=b.new_page();pg.goto(f'http://127.0.0.1:{port}/assets/rig/alonso-neon/source/tools/ohprobe.html?'+(sys.argv[1] if len(sys.argv)>1 else ''))
+    pg.wait_for_function("document.title==='done'||document.title.startsWith('ERR')",timeout=20000)
+    if pg.title()!='done':print(pg.title())
+    else:
+        for r in pg.evaluate("R"):print(json.dumps(r))
+    b.close()
+srv.shutdown()

diff --git a/assets/rig/alonso-neon/STATUS.md b/assets/rig/alonso-neon/STATUS.md
@@ -63,5 +63,13 @@
   - 다리: legRun 0 → 0.12 계단(0.36) → 1, 돌아올 때 0.12 → 0 계단(0.79) — 서 있는/달리기 다리 그림이 한 프레임에 바뀜(겹침 없음). 서 있는 정강이 조각은 부츠 윗선 + 3px 아래를 지움
 - 확인: 공격 전체 1/60초 56장면, 0.12·0.20·0.37 전/후 비교. 엔진 안 바꿈(다른 리그 영향 없음)
 
+## 17:55 내려찍기 v3 (DHL 17:37 편집 툴 0.15초 "이렇게 나오는데요" — 가까운 은색 팔뚝이 얼굴을 대각선으로 가로질러 칼이 하나 더 있는 것처럼 보임)
+- 원인: 머리 위에서 손잡이(주먹)는 머리카락 꼭대기, 팔꿈치는 볼 높이(눈 −550보다 아래 −475~−503)라 팔뚝(길이 350)이 눈·얼굴 위를 대각선으로 지남. v2 에서 팔을 머리 앞으로 그리면서 드러남
+- 고침 (시트 m10처럼 두 윗팔이 얼굴 양옆을 감싸고, 팔뚝은 이마 위 머리카락만 지나게)
+  - 손잡이 60 위로(0.1002~0.36 gy −60), 팔꿈치를 눈 높이 위로(−585~−600) — `source/` 밖 계산: 원하는 팔꿈치 자리 → 쥔 팔 조각 [각도, 길이] 풀기(fOH −144.7°·320, nOH −61.3°·285)
+  - 든 윗팔이 길어져(≈300) 엔진이 통째로 3배 늘이면 어깨 검은 덮개가 긴 타원이 됨 → `long_upper`: 어깨 덮개는 그대로, 살 부분만 미리 늘인 armNupL·armFupL(길이 310·298, 굵기 1.2배, 팔꿈치 쪽 덮개 지움 — 팔꿈치는 팔뚝 덮개 하나). 엔진 늘임 0.8~1.07
+  - 휘두름·런지(0.36~0.72)는 v2 짧은 윗팔 armNup·armFup 그대로(긴 팔은 머리 위에서만)
+- 엔진 안 바꿈(다른 리그 영향 없음). 확인 도구 `source/tools/ohprobe.html`(머리 위 관절점: 주먹·팔꿈치·어깨·눈·머리 꼭대기)
+
 ## 다음
 DHL 내려찍기 확인 → 게임 연결(REGISTRY 11, gameRef 가운데, cutHold 런지, game_check.py PC·폰)
